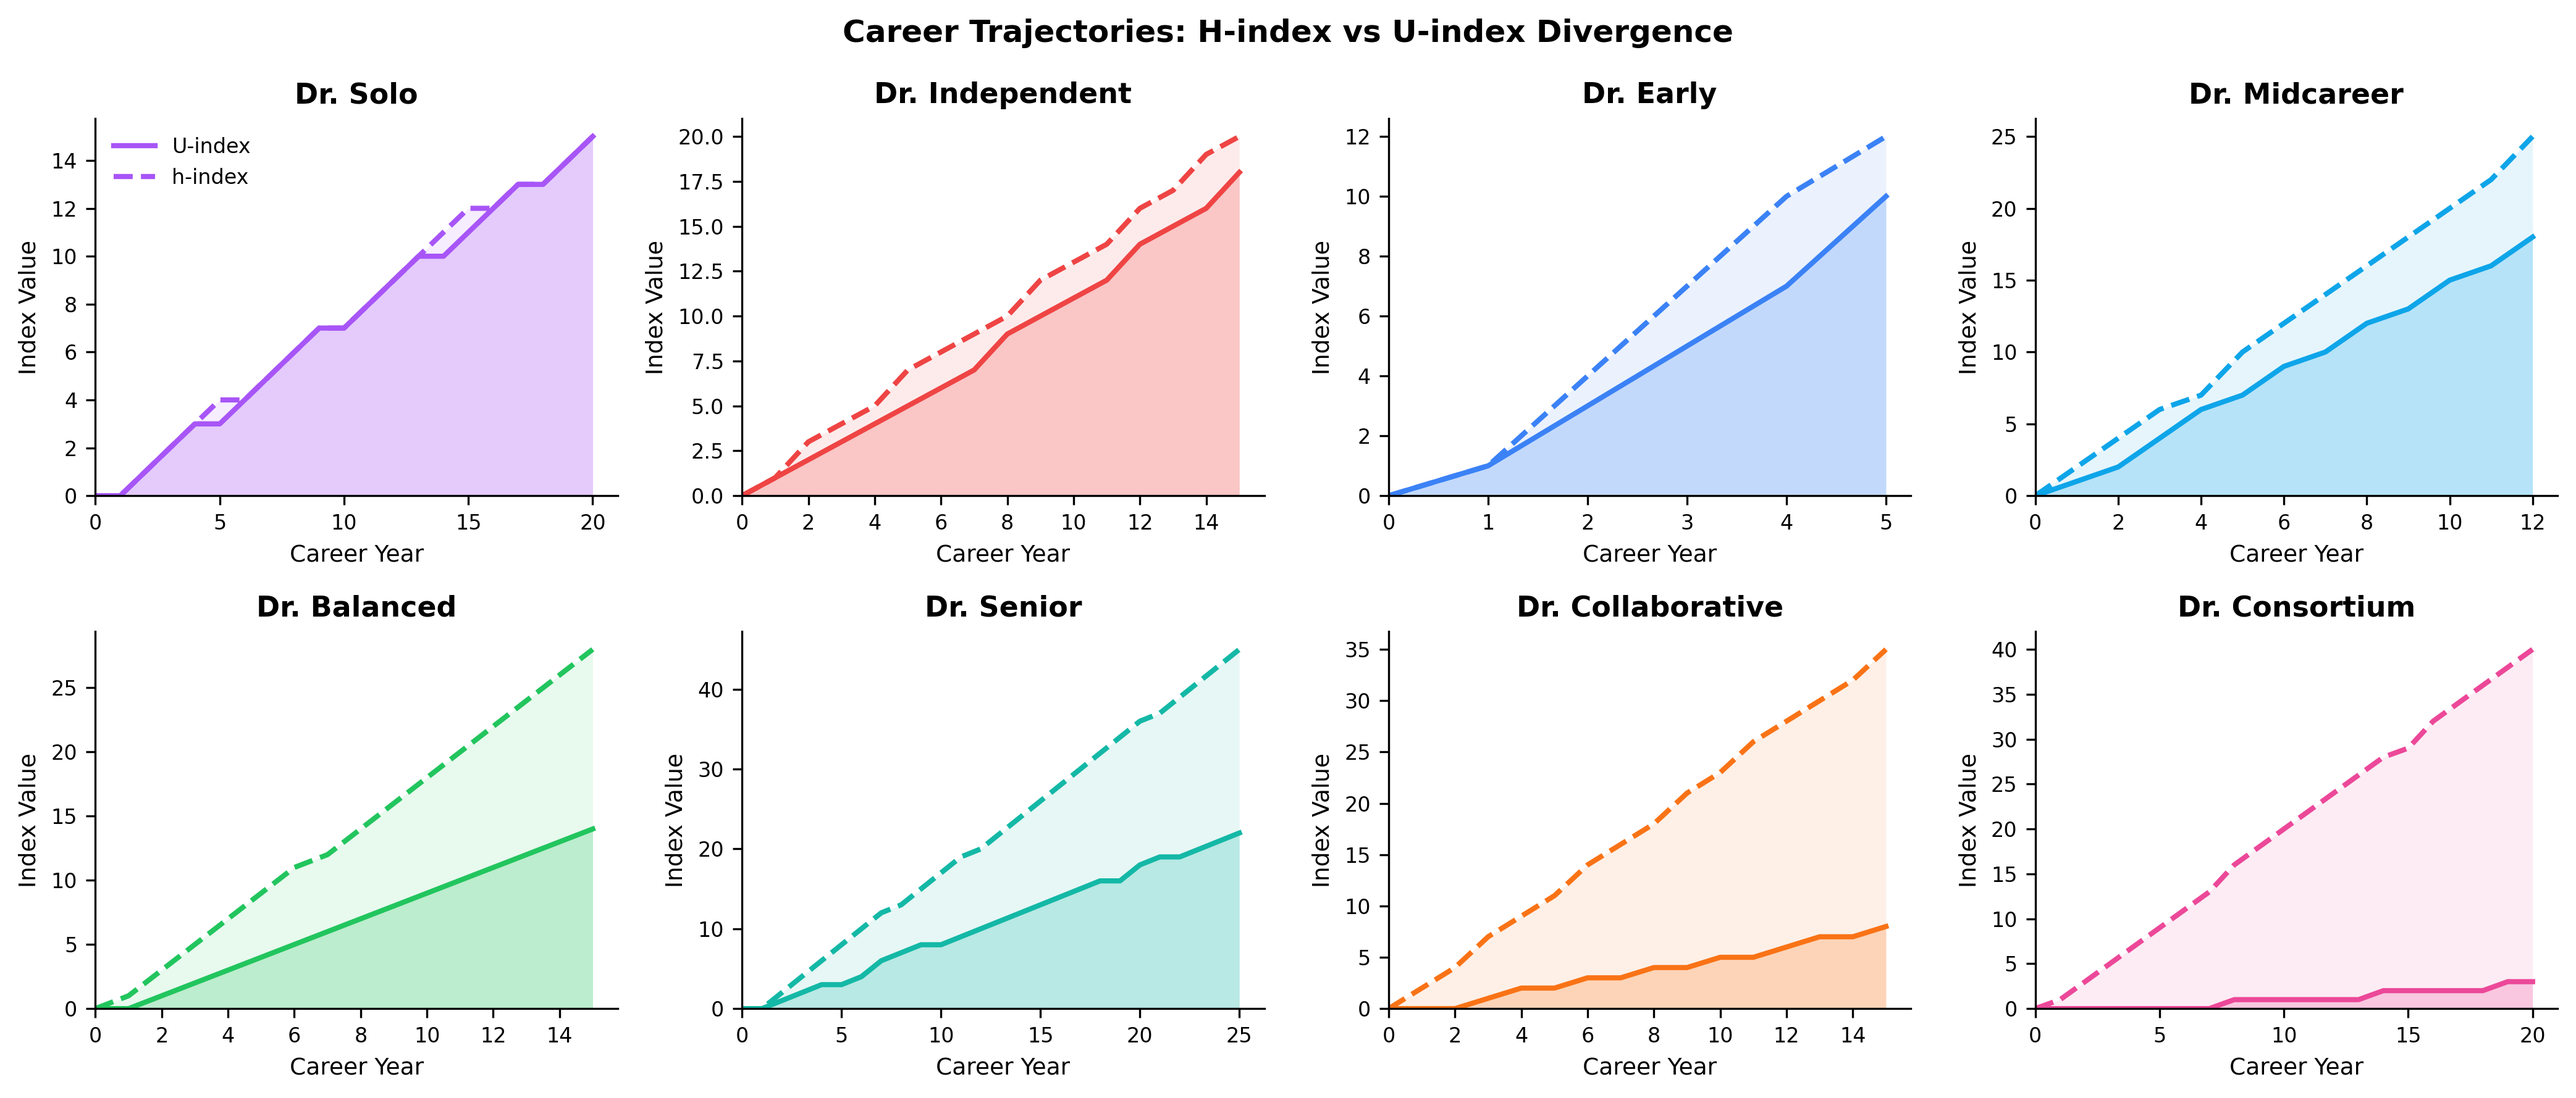
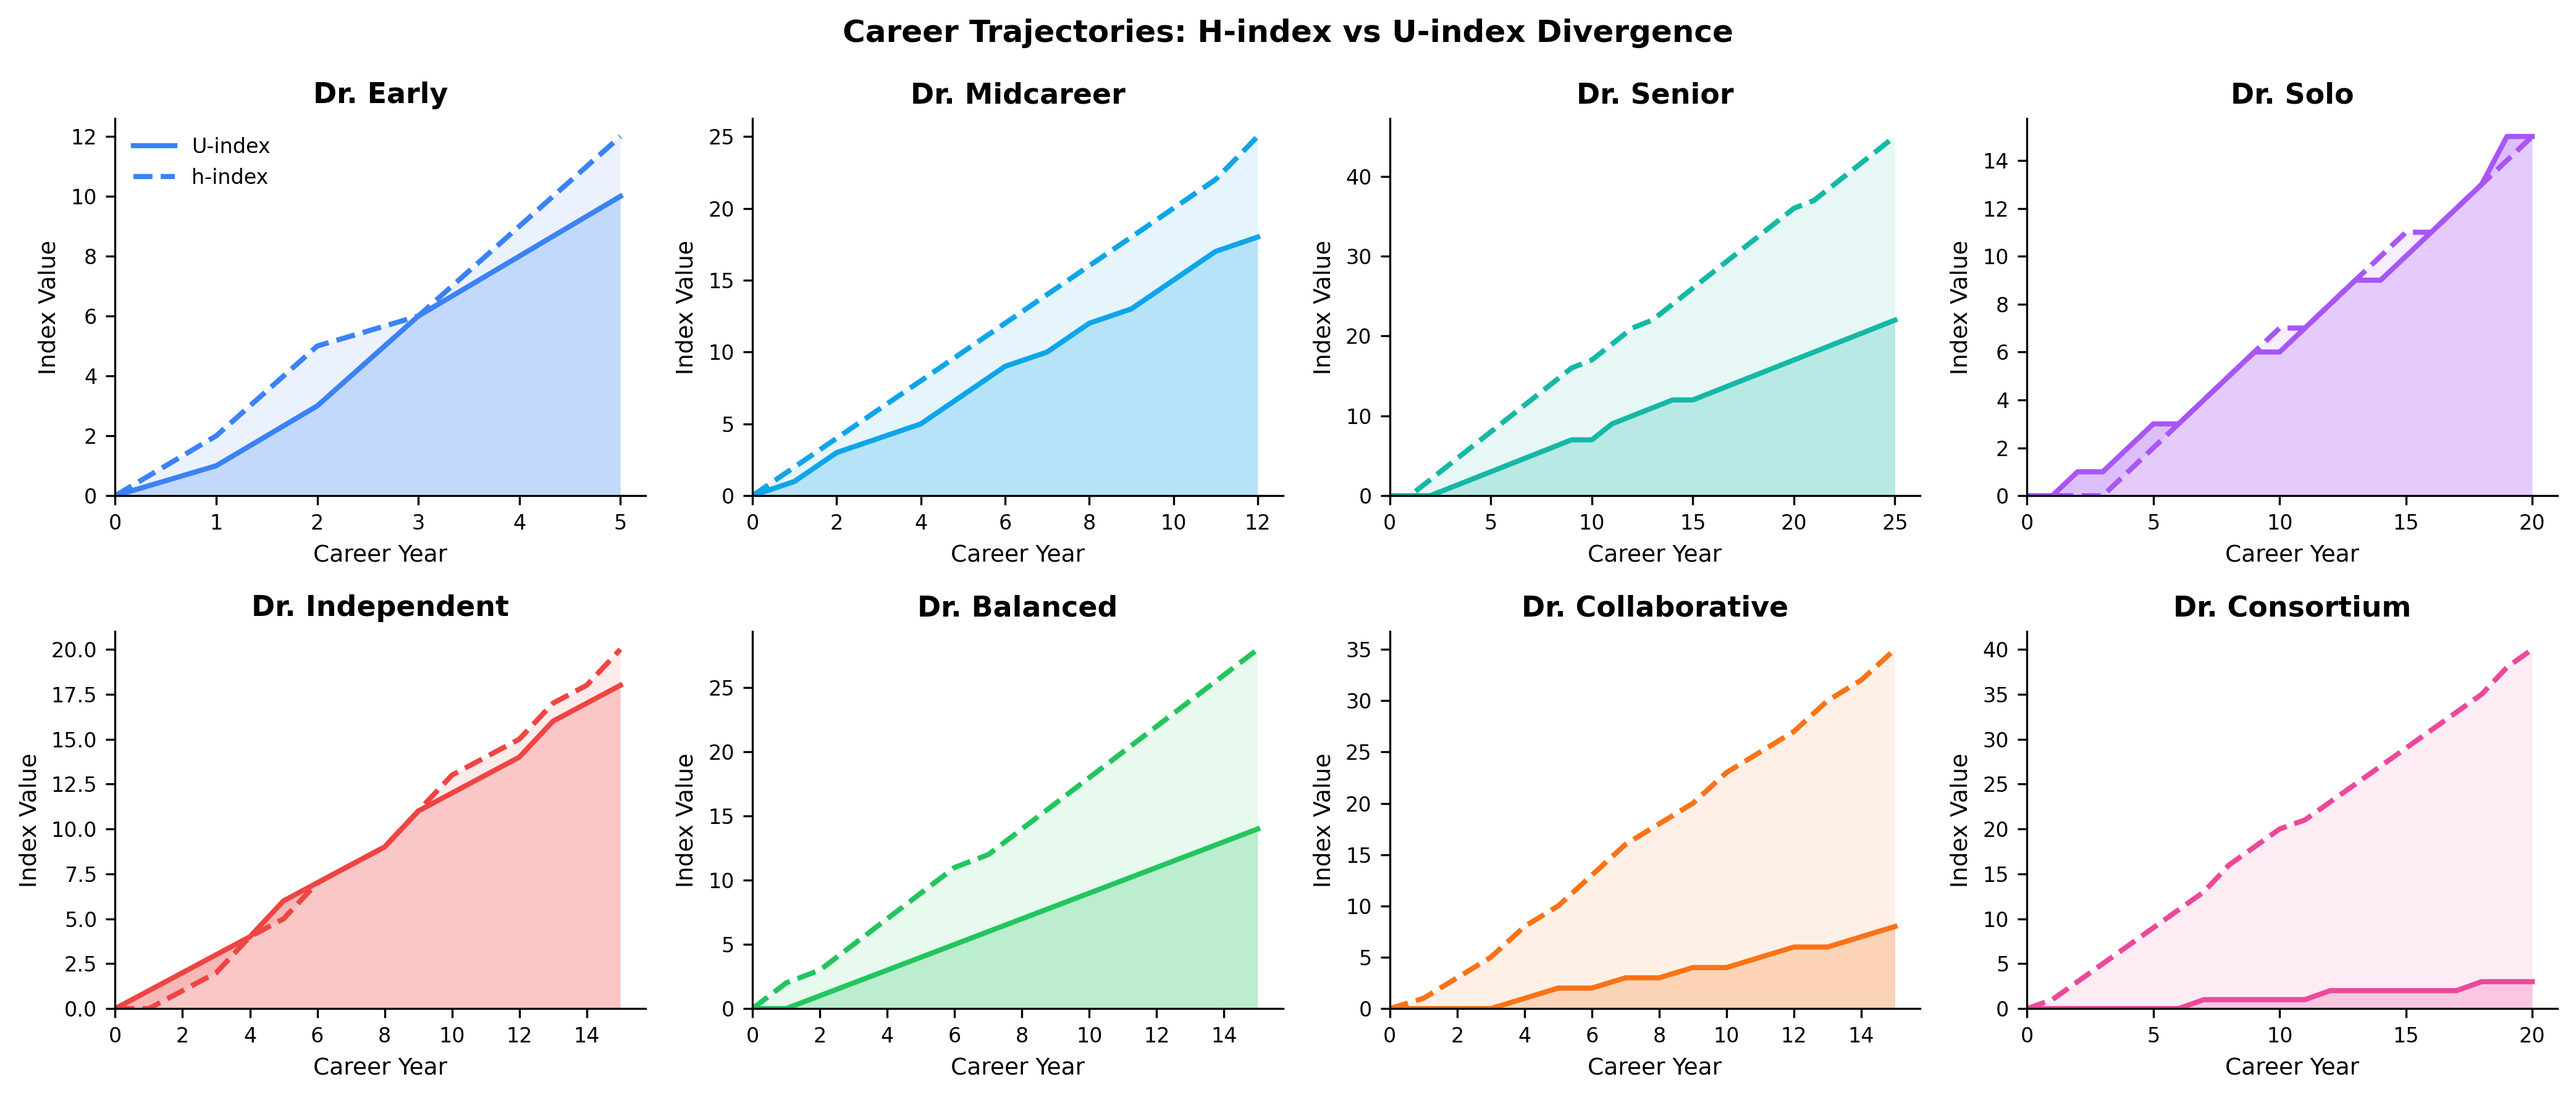
Reorder trajectory panels by archetype
Row 1: Career Stage (Early, Midcareer, Senior) + Solo
Row 2: Leadership Style (Independent, Balanced, Collaborative) + Consortium

diff --git a/examples/u_index_visualizations.py b/examples/u_index_visualizations.py
@@ -620,10 +620,10 @@ def create_bar_chart_manuscript() -> plt.Figure:
 def create_manuscript_figure() -> plt.Figure:
     """Create publication-quality figure for manuscript."""
 
-    # All 8 researchers sorted by U/h ratio descending
+    # Grouped by archetype: Career Stage + Solo (row 1), Leadership Style + Consortium (row 2)
     selected = [
-        "Dr. Solo", "Dr. Independent", "Dr. Early", "Dr. Midcareer",
-        "Dr. Balanced", "Dr. Senior", "Dr. Collaborative", "Dr. Consortium"
+        "Dr. Early", "Dr. Midcareer", "Dr. Senior", "Dr. Solo",
+        "Dr. Independent", "Dr. Balanced", "Dr. Collaborative", "Dr. Consortium"
     ]
 
     colors = {
